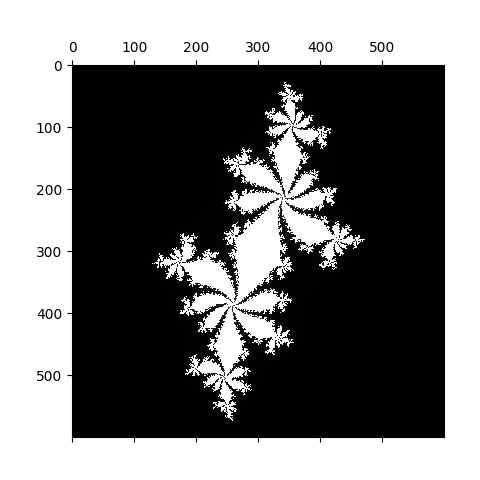
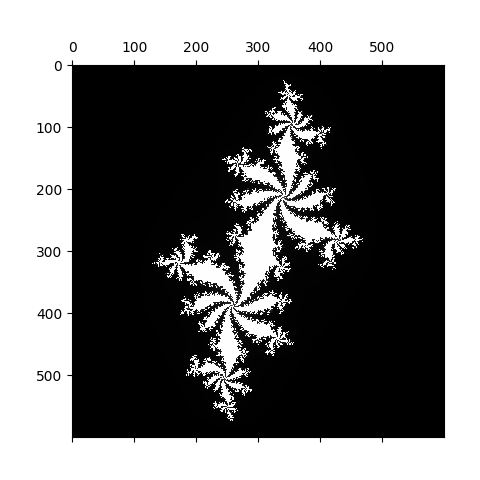
timing first tools

Changed region(s): [[0.3125, 0.1875, 0.75, 0.875]]

diff --git a/ch2/julia.py b/ch2/julia.py
@@ -3,7 +3,7 @@ from typing import Iterable, Dict, List
 import matplotlib.pyplot as plt
 
 
-C_CONSTANT = -0.62772 + 0.42193j
+C_CONSTANT = -0.63772 + 0.42193j
 MIN_, MAX_ = -1.6, 1.6
 MAX_ITER = 600
 SPLITS = 600
@@ -48,11 +48,7 @@ def count_iterations(bi_coordinates: Iterable[Iterable[complex]], constant: comp
 def full_run():
     coords = get_complex_coords(MIN_, MAX_, splits = SPLITS)
     iterations = count_iterations(coords, C_CONSTANT, MAX_ITER)
-    
     plt.matshow(iterations)
-    # plt.xticks(range(ncols), col_labels)
-    # plt.yticks(range(nrows), row_labels)
-    plt.show()
     plt.savefig("example")
 
 

diff --git a/ch2/time_dec.py b/ch2/time_dec.py
@@ -1,0 +1,20 @@
+import time
+from functools import wraps
+
+from julia import full_run
+
+def time_dec(fn):
+    @wraps(fn)
+    def inner(*args, **kwargs):
+        start_time = time.time()
+        result = fn(*args, **kwargs)
+        print(f"Running {fn.__name__} took {time.time() - start_time}")
+        return result
+    return inner
+
+@time_dec
+def decorated_run():
+    return full_run()
+
+if __name__ == "__main__":
+    full_run()
